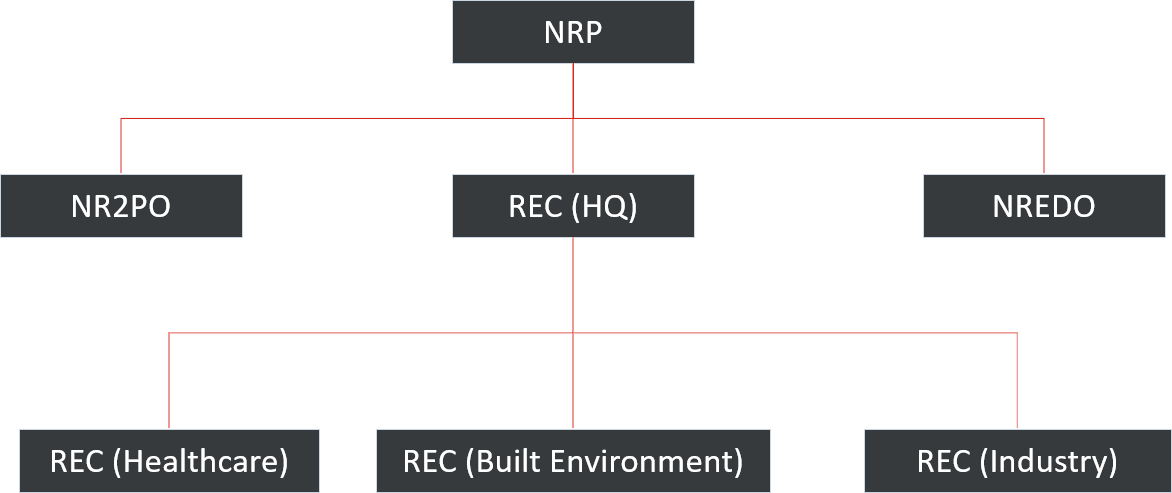
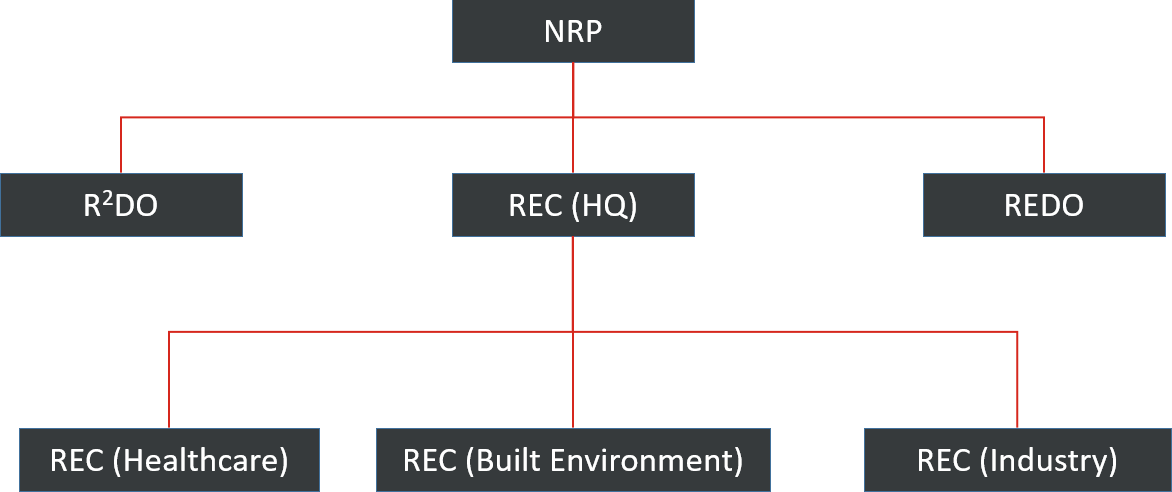
Web construction

diff --git a/_research/00-overview.md b/_research/00-overview.md
@@ -3,11 +3,11 @@ title: Overview
 permalink: /research/
 ---
 ## Overview  
-The National Robotics Programme focuses on the research and development of key Robotics enabling technologies, while having projects with the public and private sector to utilise these enabling technologies for [public-lead demand](#rds).
+Headed by R<sup>2</sup>DO, the R&D arm of NRP supports robotics research and development efforts through 2 funding initiatives; Robotics Enabling Capibility Technology (RECT) and Robotics Domain Specific (RDS).
 
-There are currently 2 funding initiatives under NRP; Robotics Enabling Capibility Technology (RECT) and Robotics Domain Specific (RDS). RECT focuses on building up a strong scientific foundation with a critical mass of researchers to provide a continuous pipeline of robotics tenologies, whereas RDS works in three application sectors for the industry to take the lead to realise innovation and to deliver robotics solutions with the aim of deployment and commercialisation.
+RECT focuses on building up a strong scientific foundation with a critical mass of researchers to provide a continuous pipeline of robotics tenologies, whereas RDS works in three application sectors for the industry to take the lead to realise innovation and to deliver robotics solutions with the aim of deployment and commercialisation.
   
-## Robotics Enabling Capability Technology (RECT)  
+## Robotics Enabling Capability Technology (RECT) ## {#rect}
 There are currently 9 focus areas of the RECT Funding Initiative.
 
 1. [Navigation & Perception](/research/nav-per/).
@@ -27,6 +27,7 @@ Data becomes increasingly important for high level simulation and communication.
 8. [Multi-robot Systems](/research/mrs/).
 Robots integrated into a society would unlikely be working alone, but would instead be working hand in hand to support the human population. Multiple robots that could collaborate together would also expand their capability in achieving large scale tasks a single unit would have not accomplished.
 9. [Trusted Robotics](/research/trusted/).
+Developing robotics that could be trusted and relied upon by people, thereby fostering cooperation and acceptance within the community.
 
 ## Robotics Domain Specific (RDS) ## {#rds}
 Public lead demand refers to the various public good in Singapore that looks at having robotics solutions to improve current work processes. The focus remains on 3 domains for the service and deployment of robotics solutions, in mainly [Healthcare](/research/healthcare/), [Environment](/research/environment/), and [Build Environment](/research/built-environment/).

diff --git a/_who-we-are/00-overview.md b/_who-we-are/00-overview.md
@@ -3,7 +3,7 @@ title: Overview
 permalink: /who-we-are/
 ---
 ## Who are we?
-The National Robotics Programme (NRP) is a national level programme that nurtures the robotics ecosystem in Singapore through funding research and development, to enhance the readiness of robotics technologies and solutions. Key considerations for NRP's R&D investments include potential for impactful applications in the public sector and potential to create differentiated capabilities for our industry. Tour around our website to find out more!
+The National Robotics Programme (NRP) is a national level programme that nurtures the robotics ecosystem in Singapore through funding research and development, to enhance the readiness of robotics technologies and solutions. Key considerations for NRP's R&D investments include potential for impactful applications in the [public sector](/research/#rds) and potential to create [differentiated capabilities](/research/#rect) for our industry. Tour around our website to find out more!
 
 ## Our aims
 >"We envision a vibrant and innovative robotics ecosystem capable of providing solutions to fuel the Smart Nation initiative and to establish Singapore as a global centre of excellence for the study, research, development, making and applications of robotics solutions."  

diff --git a/_learningcorner/01-roboticists.md b/_learningcorner/01-roboticists.md
@@ -18,3 +18,6 @@ Feel free to [reach out to us](/contact-us/) if there are any resources that you
 3. [ROS Tutorials](https://github.com/methylDragon/ros-tutorials)
 4. [Robotics Algorithms](https://github.com/AtsushiSakai/PythonRobotics#what-is-this)
 5. [Ignition Robotics](https://app.ignitionrobotics.org/dashboard)
+
+
+### Robot Intelligence
